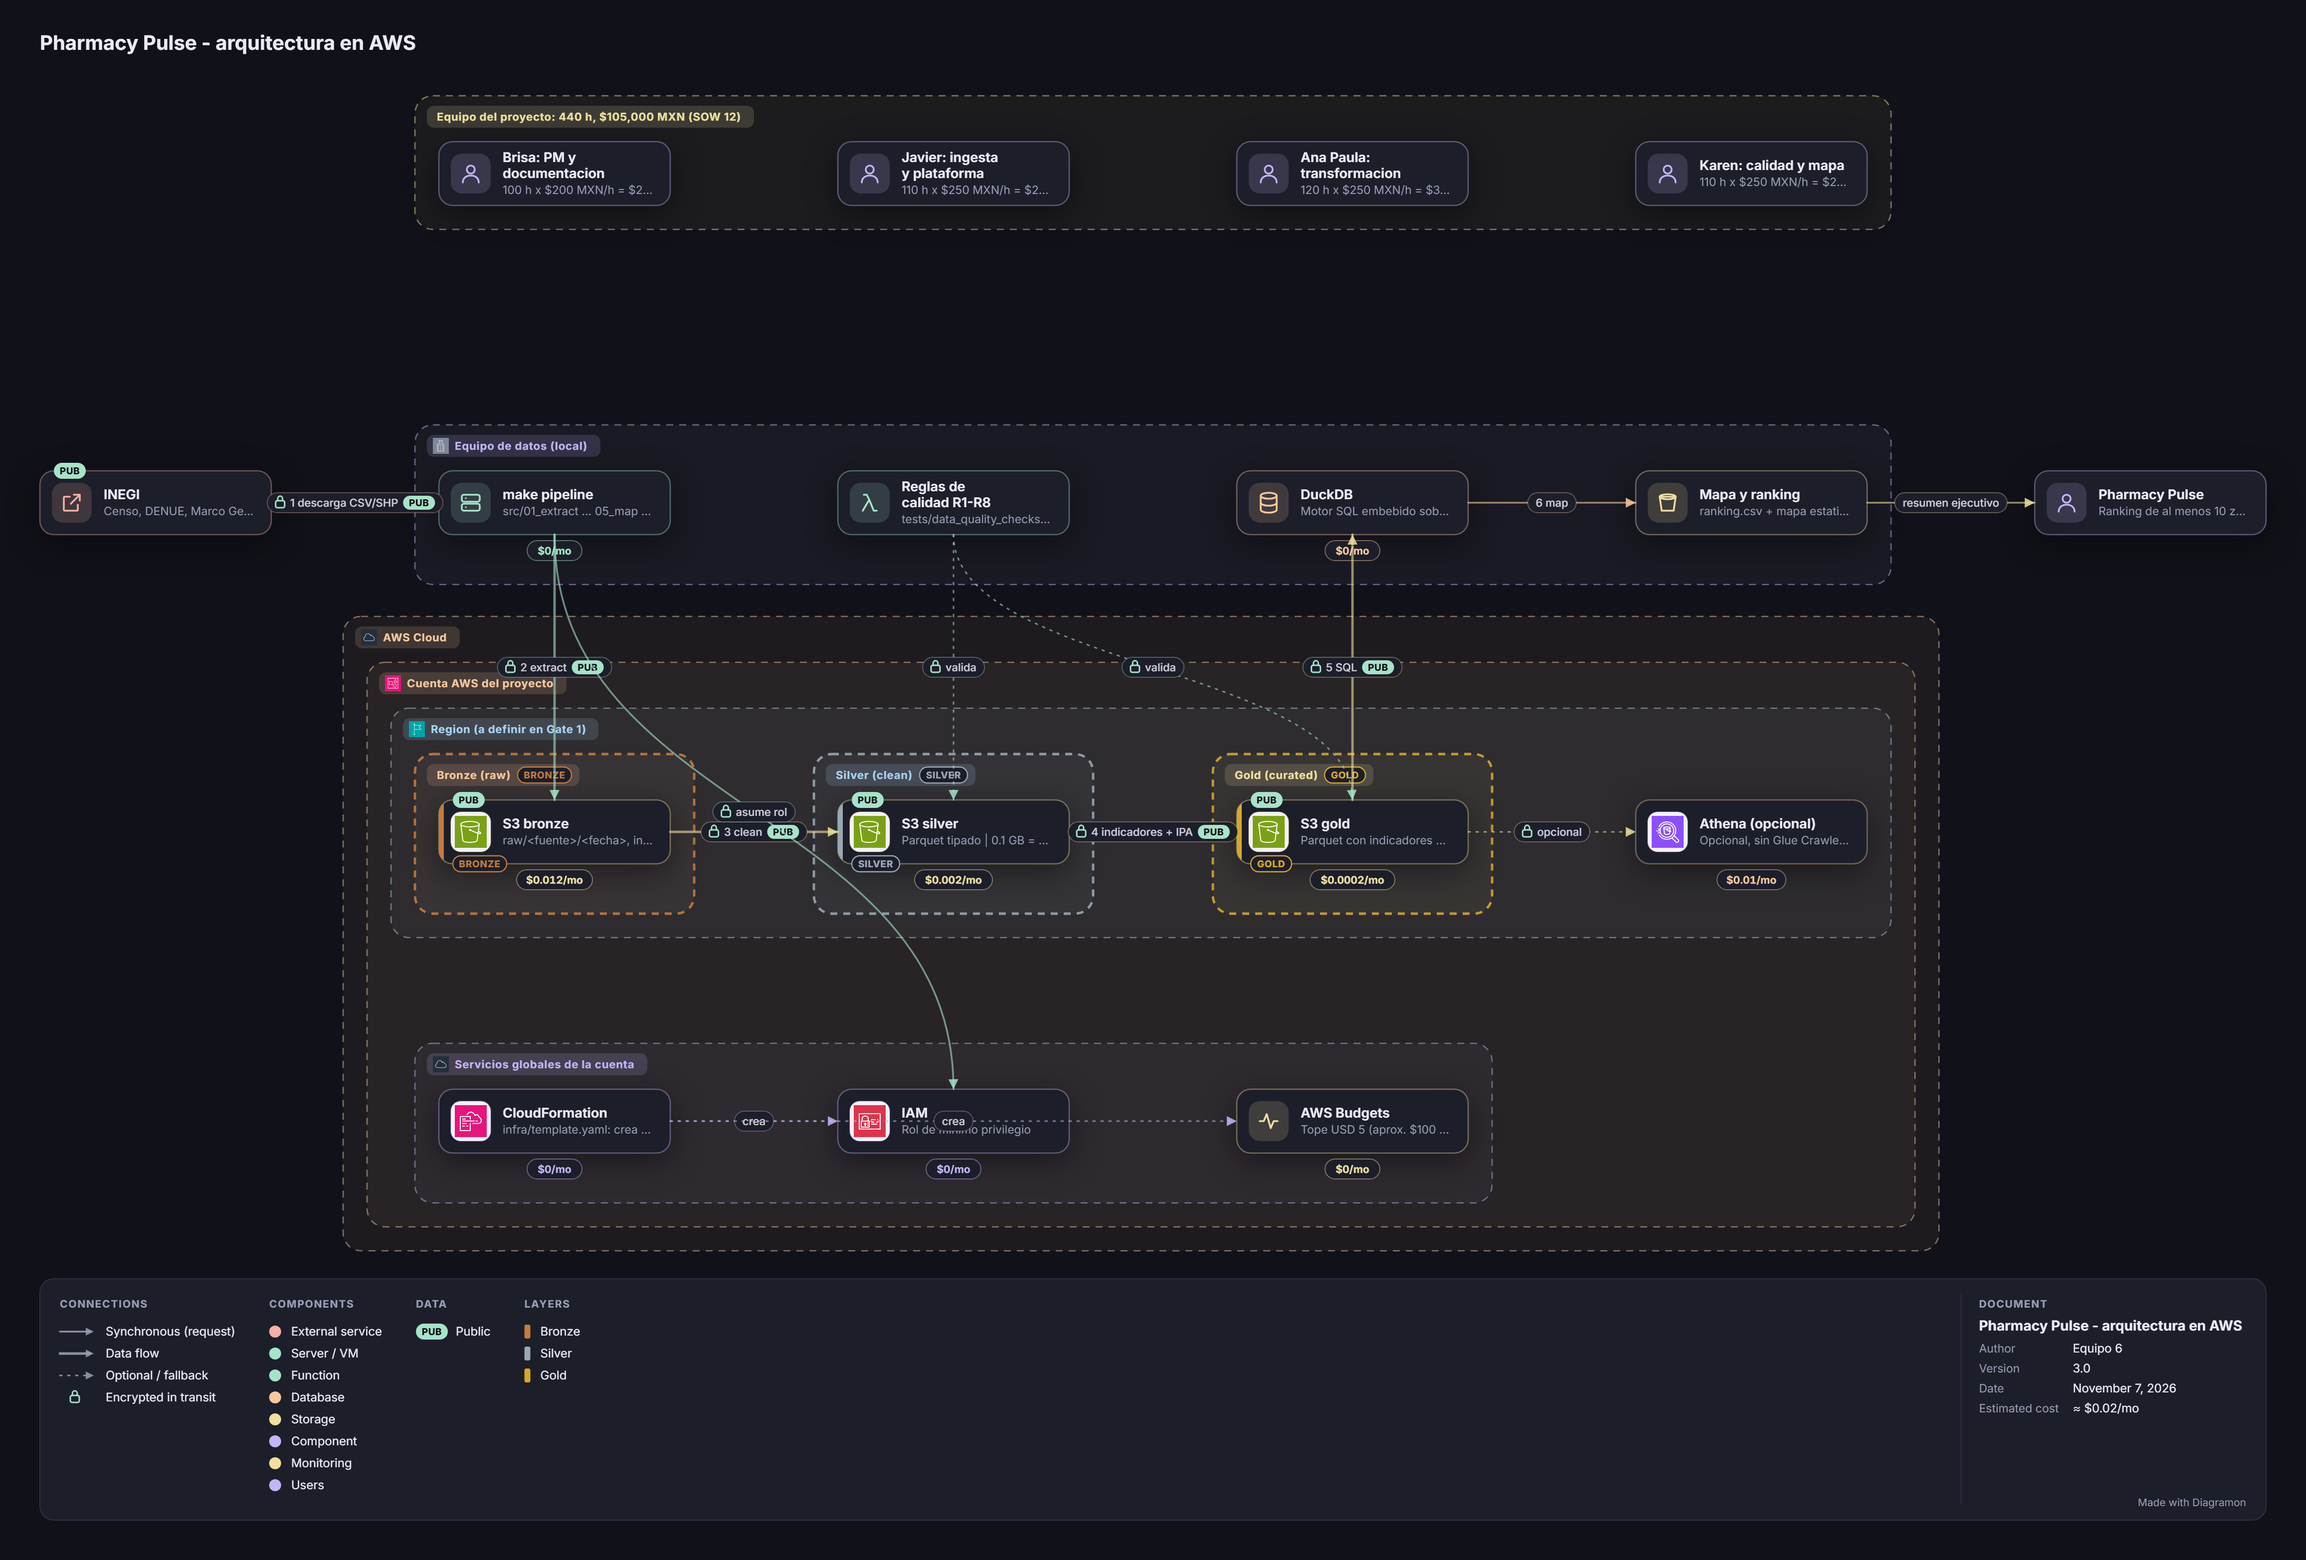
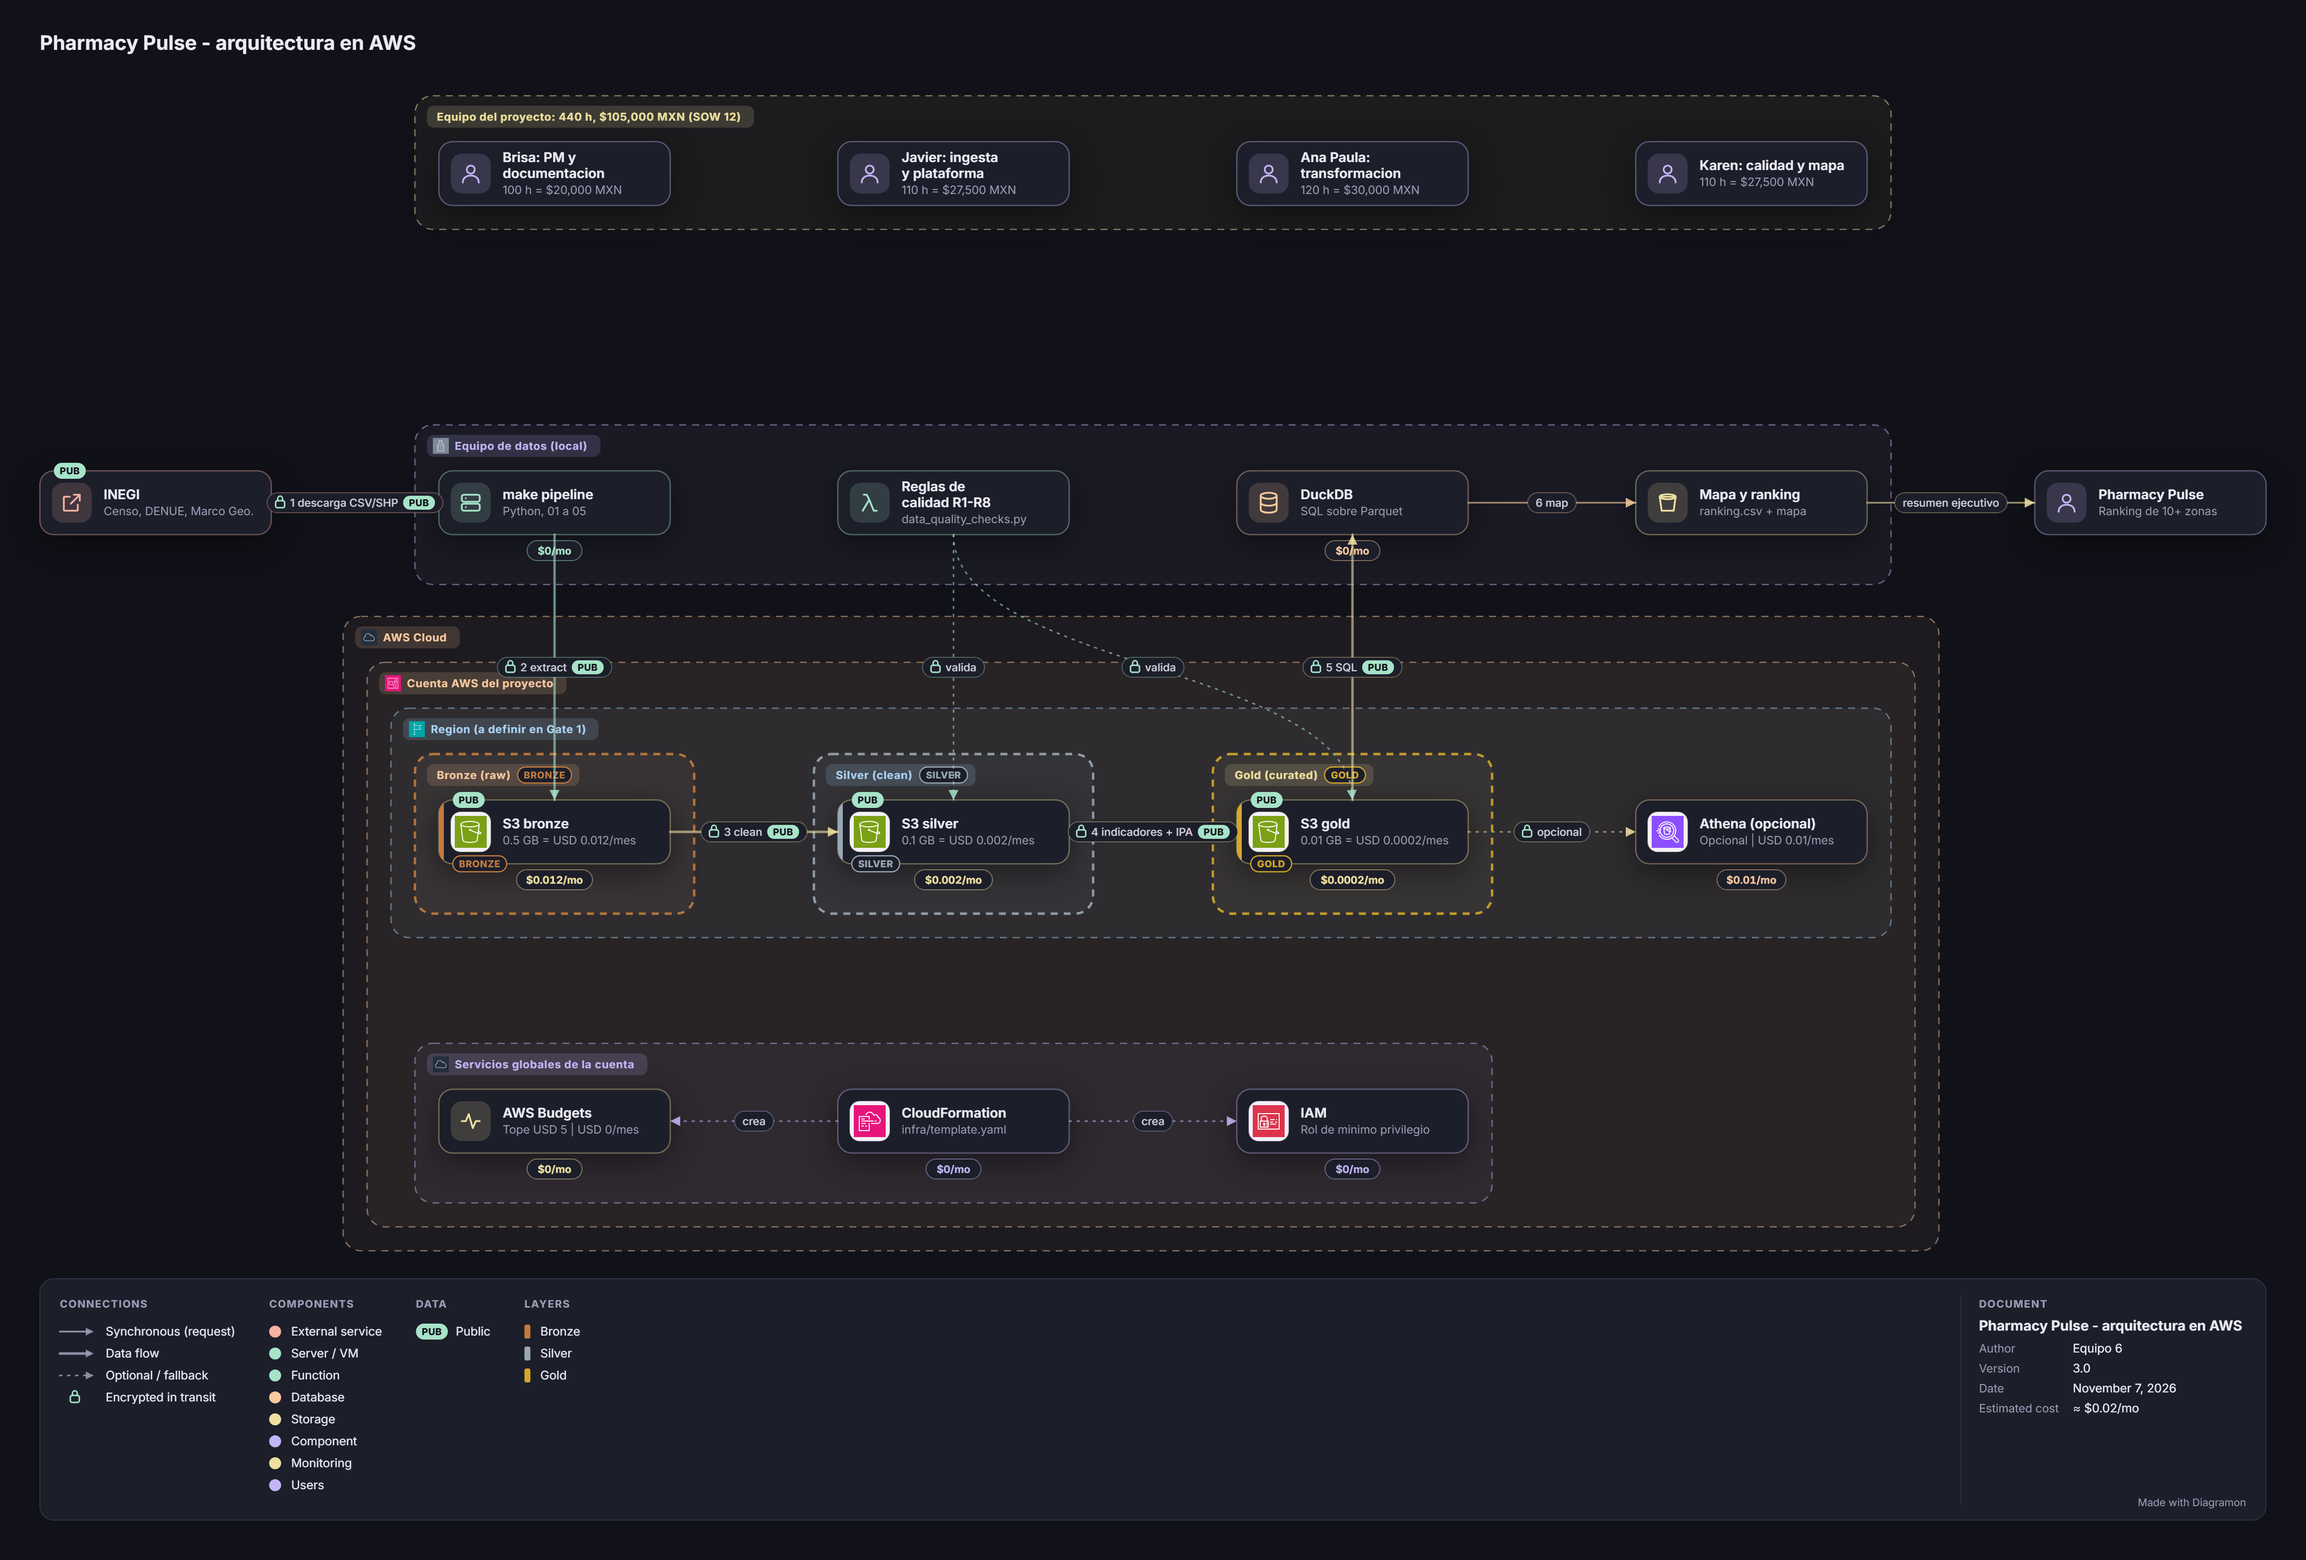
Diagrama: textos completos, sin cruces, y gasto de AWS corregido a 0.02 USD
- Subtitulos acortados para que no se corten; el detalle queda en la
  descripcion de cada nodo (incluida la justificacion de DuckDB).
- CloudFormation al centro de los servicios globales; se quita la flecha
  larga del pipeline a IAM.
- Suma de AWS corregida: 0.0242 USD al mes redondea a 0.02, no 0.03
  (SOW 12.3 y documentacion). DuckDB: decenas de MB, como dice el SOW.
- Imagen del diagrama regenerada.

diff --git a/docs/documentacion-diagrama-arquitectura.md b/docs/documentacion-diagrama-arquitectura.md
@@ -41,7 +41,7 @@ CloudFormation, IAM y Budgets se dibujan abajo, en el recuadro "Servicios global
 
 - Es un motor SQL embebido: se instala con `pip`, sin servidor ni cluster, y lee Parquet directo desde S3.
 - Costo de $0 y sin cómputo permanente en AWS (SOW 4 y 5.5); Athena cobra por dato escaneado y pide catálogo.
-- El volumen (Censo, DENUE y geografía de unas cuantas zonas, cientos de MB) cabe en una laptop; Spark o Databricks serían sobredimensionados.
+- El volumen (Censo, DENUE y geografía de unas cuantas zonas, decenas de MB) cabe en una laptop; Spark o Databricks serían sobredimensionados.
 - Un solo analista y ejecución por `make pipeline`: no hay concurrencia que justifique un warehouse.
 - Si el volumen crece, Athena (opcional) usa los mismos Parquet de gold sin reescribir nada.
 
@@ -89,7 +89,7 @@ Las líneas punteadas del diagrama son de control, no de datos:
 - **Procesos, no componentes:** el linaje, el versionado de `raw` por fecha y la etiqueta de confianza (SOW 6.4 a 6.6) no se dibujan como nodos.
 - **Sustituto de ingreso:** se define en el hito 1 (SOW 7.5) y no aparece.
 - **Ícono de AWS Budgets:** Diagramon no trae uno oficial; usa uno genérico.
-- **Costos (SOW 12.3):** estimación de aprox. 0.03 USD al mes (cerca de $0.5 MXN) a precio de lista, antes del free tier: S3 bronze 0.012, silver 0.002, gold 0.0002 y Athena opcional 0.01. CloudFormation, IAM, Budgets, DuckDB y `make pipeline` van en 0. AWS Budgets lleva el tope de USD 5 (aprox. $100 MXN) y la alerta al 80 %; el tope es un límite, no un gasto.
+- **Costos (SOW 12.3):** estimación de aprox. 0.02 USD al mes (cerca de $0.5 MXN) a precio de lista, antes del free tier: S3 bronze 0.012, silver 0.002, gold 0.0002 y Athena opcional 0.01. CloudFormation, IAM, Budgets, DuckDB y `make pipeline` van en 0. AWS Budgets lleva el tope de USD 5 (aprox. $100 MXN) y la alerta al 80 %; el tope es un límite, no un gasto.
 - **Supuestos:** los volúmenes (0.5, 0.1 y 0.01 GB) son del equipo y se confirman con la primera descarga; el free tier y la región se revisan antes del Gate 1.
 - **Servicios no incluidos:** VPC, KMS, CloudWatch y Lambda, porque el SOW no los contempla.
 - **Estado:** el JSON es válido y sus referencias existen. Importado en Diagramon el 2026-11-07: 13 componentes, 13 conexiones, sin avisos. Falta regenerar el PNG de arriba, que sigue siendo el de la versión anterior.

diff --git a/docs/SOW.md b/docs/SOW.md
@@ -323,9 +323,9 @@ Precios de lista de Amazon S3 Standard (0.023 USD por GB-mes, región us-east-1;
 | CloudFormation, IAM | Sin cargo por usarlos | 0 | $0 |
 | AWS Budgets | Los 2 primeros presupuestos por cuenta no tienen costo | 0 | $0 |
 | DuckDB y `make pipeline` | Se ejecutan en el equipo local | 0 | $0 |
-| **Total estimado** | | **aprox. 0.03** | **aprox. $0.5** |
+| **Total estimado** | | **aprox. 0.02** | **aprox. $0.5** |
 
-El gasto estimado es de unos 0.03 USD al mes (cerca de $0.5 MXN), muy por debajo del tope de USD 5. Los requests de S3 y la transferencia de salida son despreciables con estos volúmenes. Si el volumen real de `raw` fuera diez veces mayor, el total seguiría por debajo de 0.2 USD al mes.
+El gasto estimado es de unos 0.02 USD al mes (cerca de $0.5 MXN), muy por debajo del tope de USD 5. Los requests de S3 y la transferencia de salida son despreciables con estos volúmenes. Si el volumen real de `raw` fuera diez veces mayor, el total seguiría por debajo de 0.2 USD al mes.
 
 ### 12.4 Costo total del proyecto
 
